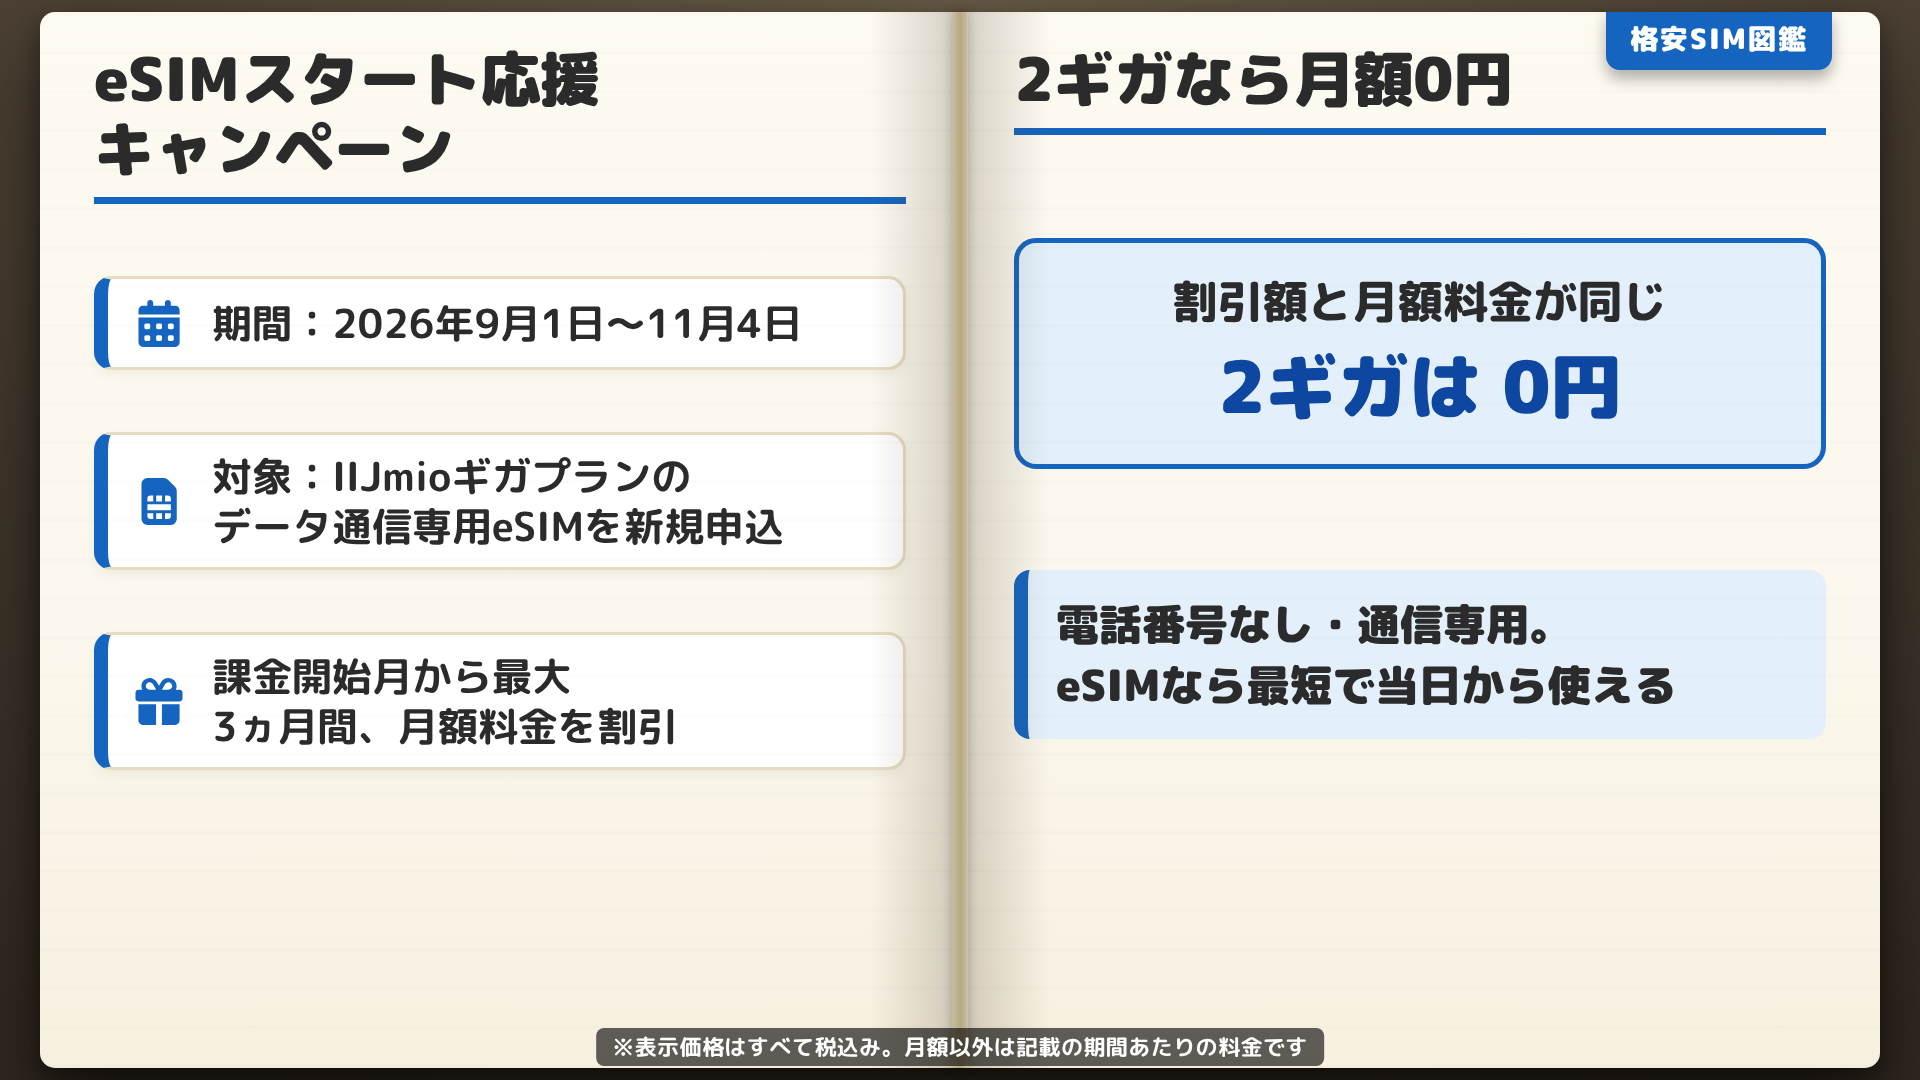
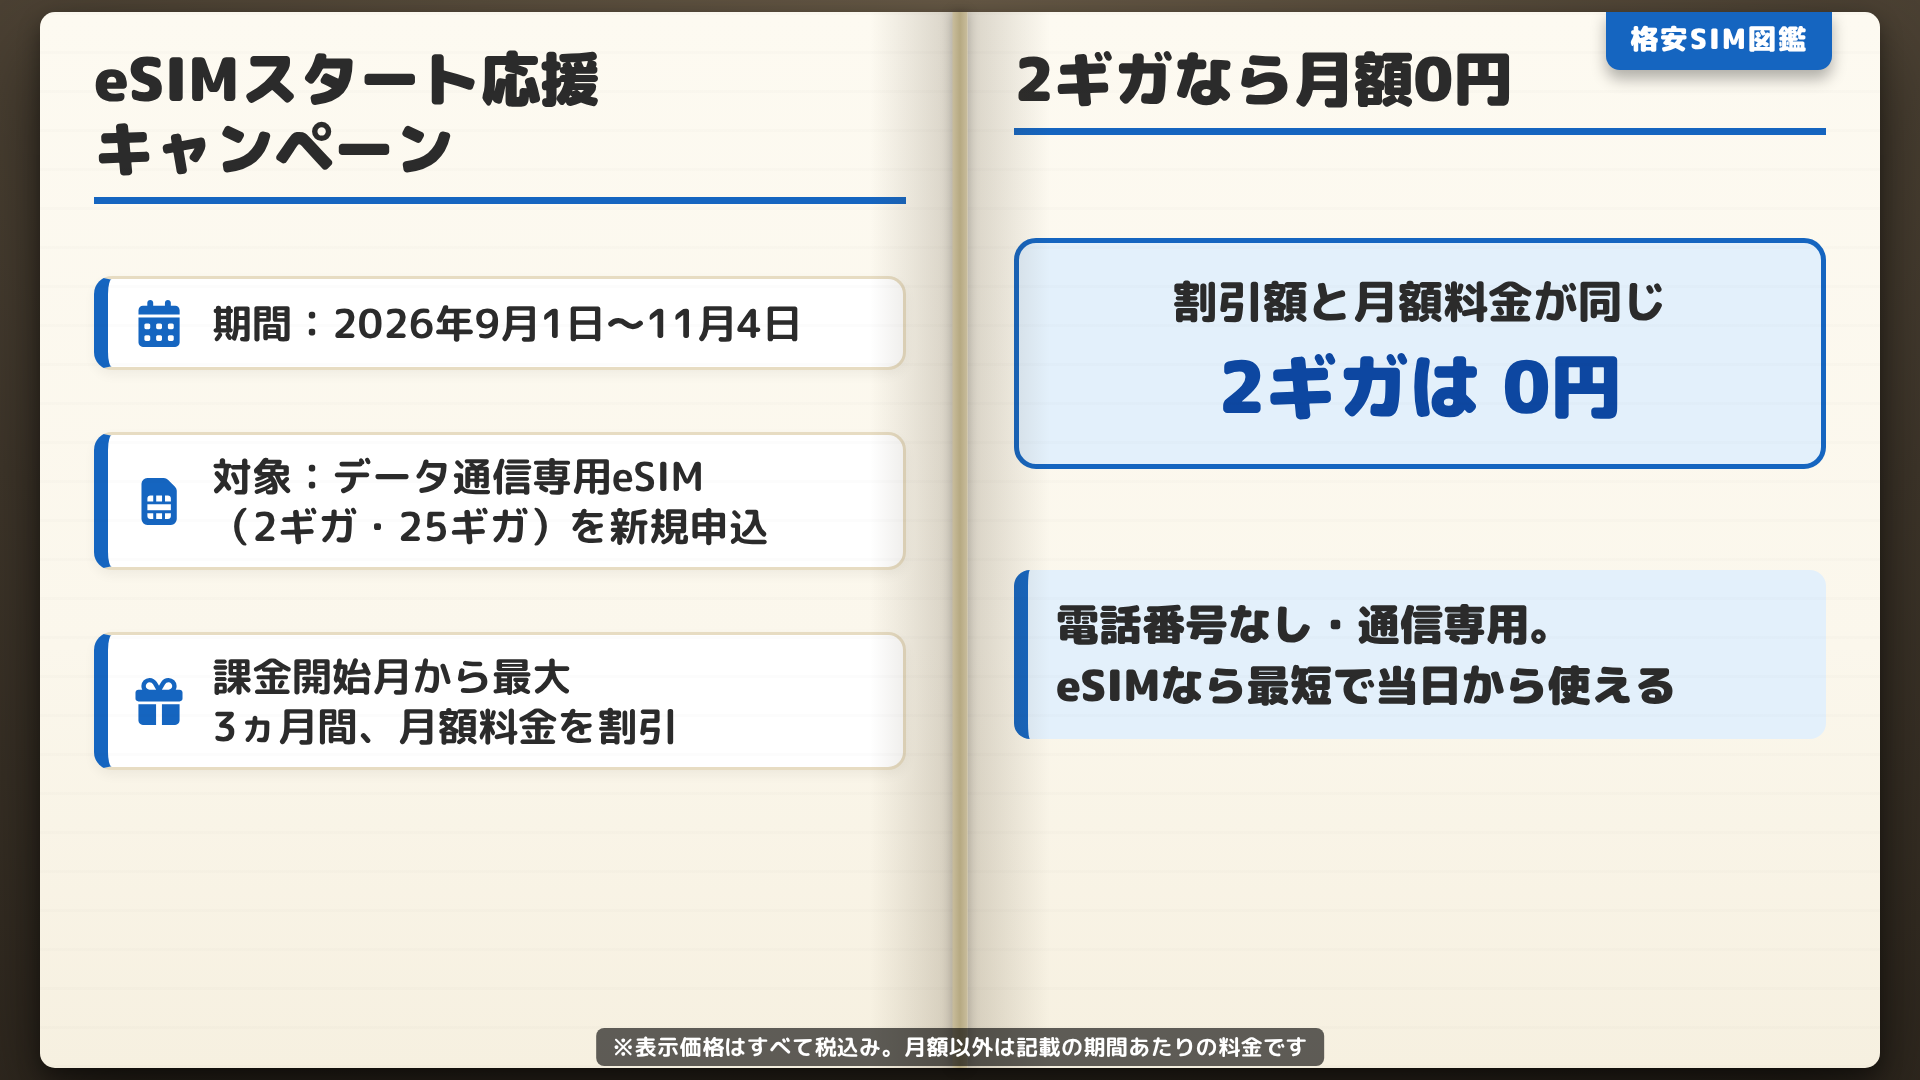
IIJmio公式キャンペーンページの内容と乖離していた部分を改修

Changed region(s): [[0.0938, 0.4278, 0.4062, 0.5194]]

diff --git a/slides.html b/slides.html
@@ -380,7 +380,7 @@
               <li>
                 <span class="ic"><i class="fa-solid fa-sim-card"></i></span>
                 <div class="tx">
-                  対象：IIJmioギガプランのデータ通信専用eSIMを新規申込
+                  対象：データ通信専用eSIM（2ギガ・25ギガ）を新規申込
                 </div>
               </li>
               <li>
@@ -474,7 +474,7 @@
           <div class="page-head">25ギガには増量特典も</div>
           <div class="page-body">
             <div class="emph">
-              最大6ヵ月間<br /><span class="big">5GB 増量</span>
+              最大3ヵ月間<br /><span class="big">5GB 増量</span>
             </div>
             <div class="lead">
               月額割引に加えて<br />たっぷり使いたい人にも特典
